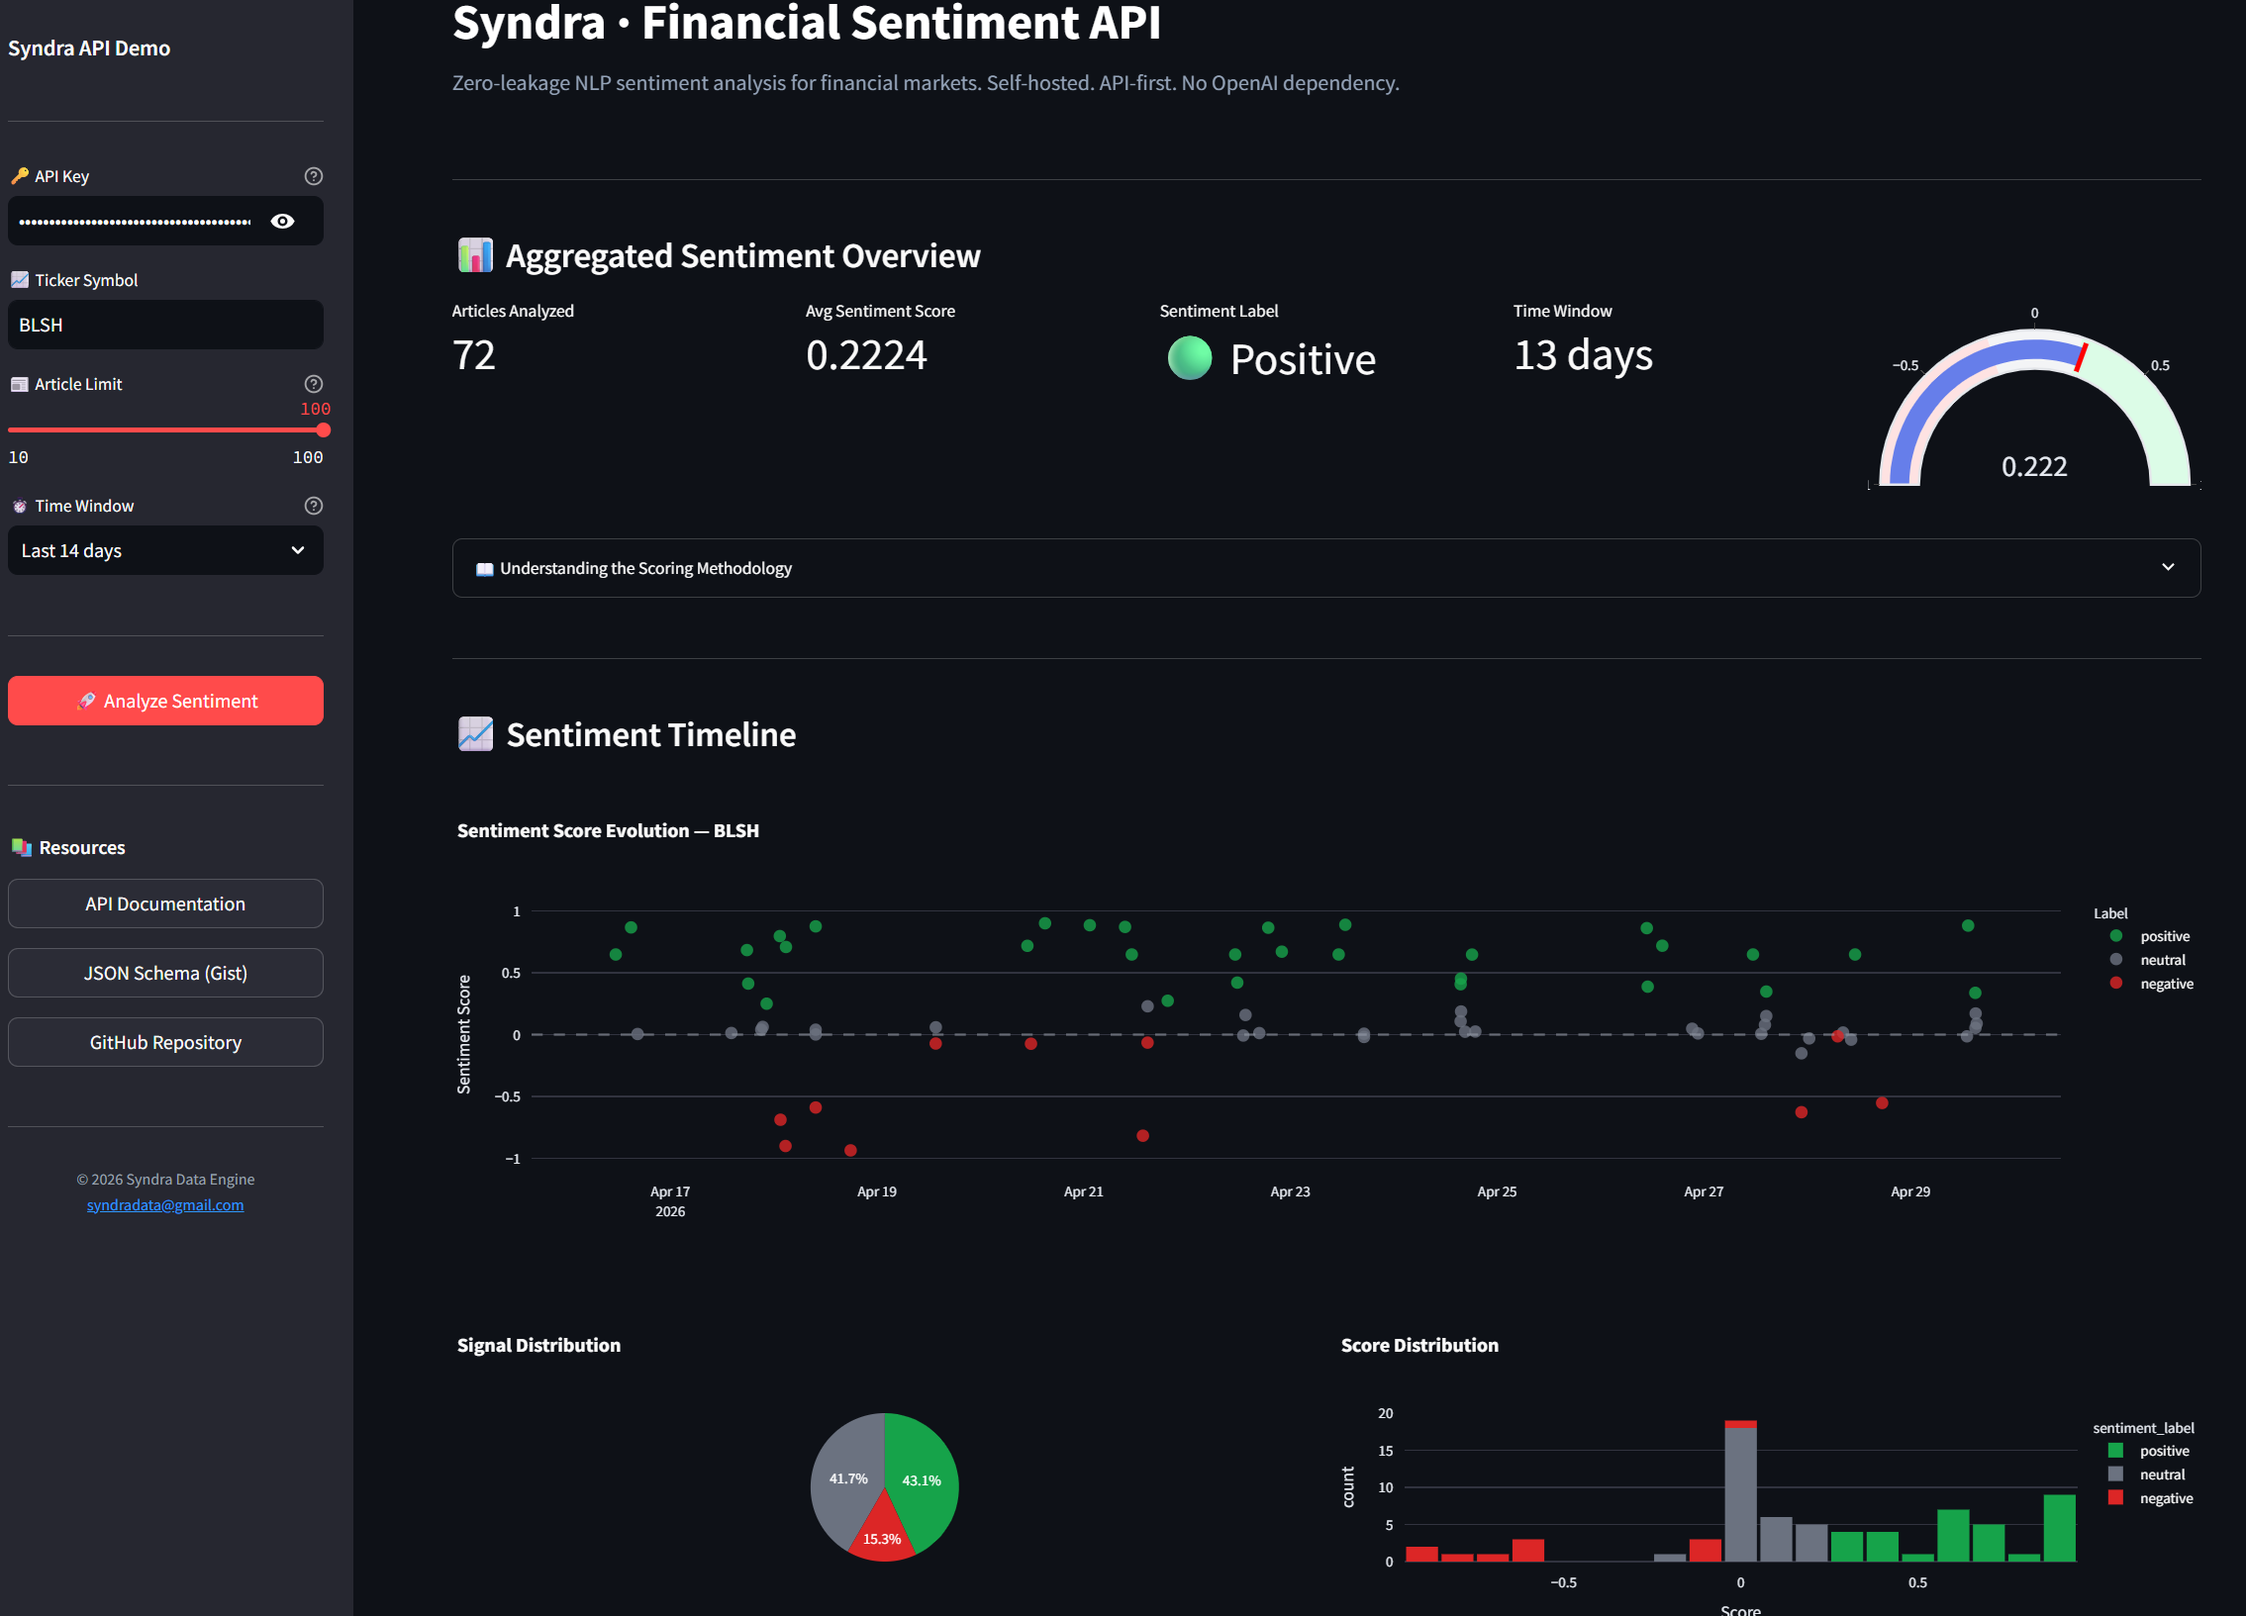
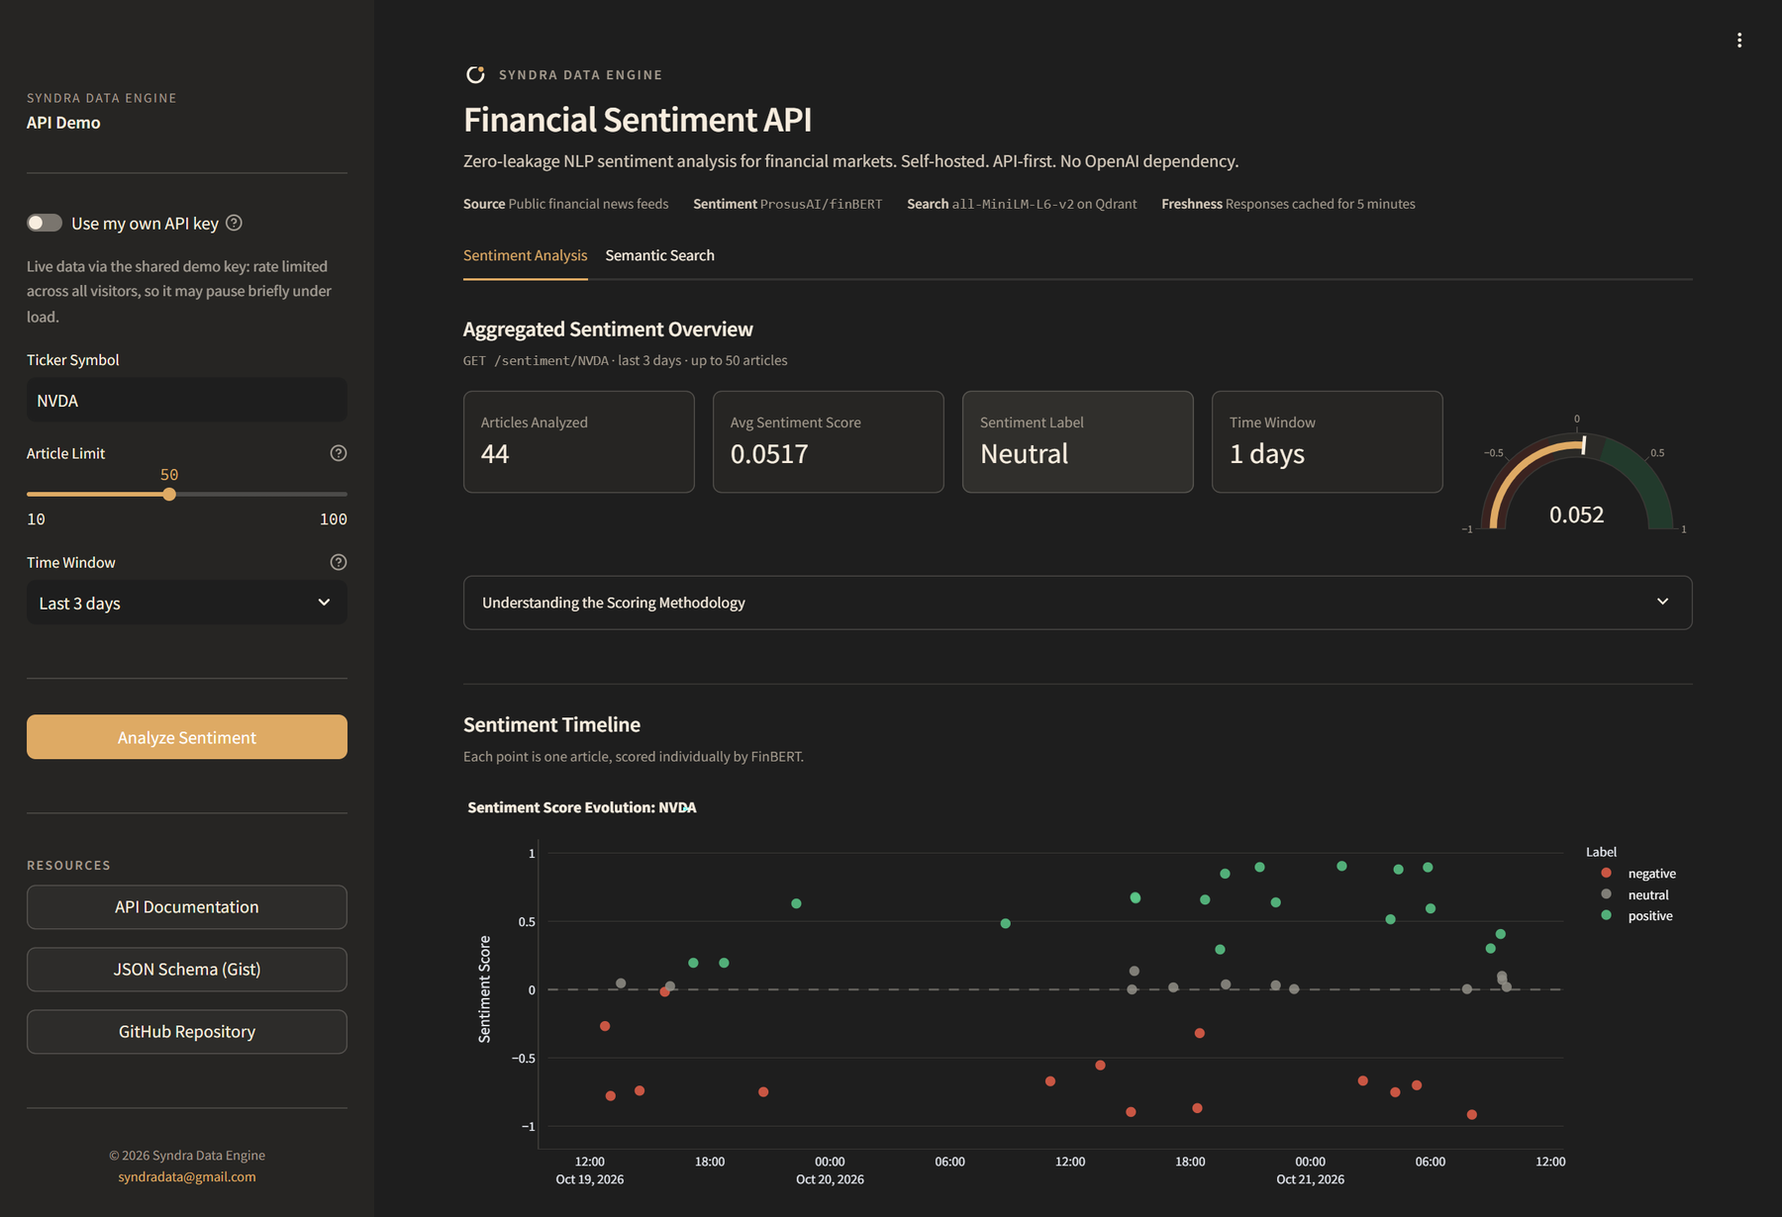
docs(readme): demo screenshot, real API examples and accurate claims

diff --git a/README.md b/README.md
@@ -5,7 +5,7 @@
   </picture>
 </p>
 
-# Syndra - Advanced Financial DaaS Platform 📈
+# Syndra - Financial News Sentiment DaaS
 
 ![Python](https://img.shields.io/badge/python-3670A0?style=for-the-badge&logo=python&logoColor=ffdd54)
 ![Docker](https://img.shields.io/badge/docker-%230db7ed.svg?style=for-the-badge&logo=docker&logoColor=white)
@@ -13,76 +13,106 @@
 ![Postgres](https://img.shields.io/badge/postgres-%23316192.svg?style=for-the-badge&logo=postgresql&logoColor=white)
 ![Qdrant](https://img.shields.io/badge/Qdrant-FF5252?style=for-the-badge&logo=qdrant)
 
-🌐 **[syndradata.com](https://syndradata.com/)** · 📊 **[Live demo](https://demo.syndradata.com/)** · 📖 **[API docs](https://api.syndradata.com/docs)**
+**[syndradata.com](https://syndradata.com/)** · **[Live demo](https://demo.syndradata.com/)** · **[API docs](https://api.syndradata.com/docs)**
 
-<!--- 
+**Syndra** is a B2B Data-as-a-Service (DaaS) platform for quantitative funds and financial intelligence systems. Every hour it ingests public financial news, scores each article with a financial sentiment model, indexes it for semantic search, and serves the result through a strictly typed, versioned REST API.
+
+Built on the principle of **Zero Data Leakage**, Syndra runs 100% of its Natural Language Processing (NLP) models on its own server, with no calls to third-party AI APIs, so the data and the queries never leave its perimeter.
+
 <p align="center">
-  <img src="assets/public/syndra_demo_dashboard.png" alt="Syndra Demo Dashboard" width="100%">
+  <img src="assets/public/syndra_demo_dashboard.png" alt="Syndra demo: aggregated sentiment and timeline for NVDA" width="100%">
 </p>
---->
-
-**Syndra** is an enterprise-grade, B2B Data-as-a-Service (DaaS) platform engineered for quantitative funds and financial intelligence systems. It delivers strictly typed, real-time financial sentiment analysis and structured metadata through a robust, API-first architecture.
-
-Built on the principle of **Zero Data Leakage**, Syndra ensures absolute data sovereignty by executing 100% of Natural Language Processing (NLP) models locally, eliminating reliance on third-party APIs and safeguarding proprietary alpha signals.
 
 ---
 
-## ⚡ API & SDK Integration
+## API Integration
 
-Syndra acts as the programmatic intelligence layer for downstream trading and analytics platforms.
+Syndra acts as the programmatic intelligence layer for downstream trading and analytics platforms. Every request is authenticated with an API key, rate limited per client, and cached for 5 minutes.
 
-| 📊 Ticker Sentiment Search | 🧠 Semantic Vector Search |
-| :---: | :---: |
-| <img src="assets/public/swagger_ticker.png" alt="Swagger Ticker Search" width="100%"> | <img src="assets/public/swagger_semantic.png" alt="Swagger Semantic Search" width="100%"> |
-
-### Target Endpoint: Semantic Sentiment
+### Ticker sentiment
 
 **Request:**
 ```bash
-curl -X GET "https://api.syndradata.com/api/v1/sentiment/AAPL" \
+curl -X GET "https://api.syndradata.com/api/v1/sentiment/NVDA?limit=2" \
      -H "X-API-Key: syndra_XXXXXXXXXXXXXXXXXX" \
      -H "Accept: application/json"
 ```
 
-**Response Data Contract:**
+**Response:**
 ```json
 {
   "status": "success",
-  "ticker": "AAPL",
-  "time_window": "3 days",
-  "aggregated_sentiment": "positive",
-  "average_score": 0.6543,
-  "article_count": 42,
+  "ticker": "NVDA",
+  "time_window": "24 hours",
+  "aggregated_sentiment": "neutral",
+  "average_score": 0.0449,
+  "article_count": 2,
   "recent_signals": [
     {
-      "title": "Apple accelerates AI deployment across edge devices",
-      "url": "https://finance.yahoo.com/news/apple-ai...",
-      "published_at": "2026-04-27T10:20:00",
+      "title": "NVIDIA Launches OpenShell Reference Architecture for Safe AI Agents",
+      "url": "https://finance.yahoo.com/technology/ai/articles/nvidia-launches-openshell-reference-architecture-094800780.html?.tsrc=rss",
+      "published_at": "2026-10-21T09:48:00",
       "source": "Finance.yahoo.com",
-      "sentiment_label": "positive",
-      "sentiment_score": 0.8468
+      "sentiment_label": "neutral",
+      "sentiment_score": 0.019
+    },
+    {
+      "title": "European Ecosystem Builds World’s Most Efficient AI Factories With NVIDIA DSX",
+      "url": "https://finance.yahoo.com/technology/ai/articles/european-ecosystem-builds-world-most-093500135.html?.tsrc=rss",
+      "published_at": "2026-10-21T09:35:00",
+      "source": "Finance.yahoo.com",
+      "sentiment_label": "neutral",
+      "sentiment_score": 0.0707
     }
   ]
 }
 ```
 
+### Semantic search
+
+Finds articles by meaning rather than by keyword, optionally filtered by ticker.
+
+**Request:**
+```bash
+curl -X GET "https://api.syndradata.com/api/v1/search/semantic?query=chip%20export%20restrictions&limit=2" \
+     -H "X-API-Key: syndra_XXXXXXXXXXXXXXXXXX"
+```
+
+**Response:**
+```json
+[
+  {
+    "similarity_score": 0.6149,
+    "title": "China's Chip Exports Double To $31 Billion As US Restrictions Fuel AI Demand",
+    "tickers": [],
+    "sentiment_label": "positive"
+  },
+  {
+    "similarity_score": 0.6126,
+    "title": "China steps up protection for chip designs in revised regulations",
+    "tickers": [],
+    "sentiment_label": "neutral"
+  }
+]
+```
+
 ---
 
-## 🏛 Core Architectural Principles
+## Core Architectural Principles
 
-Syndra prioritizes data immutability, mathematical resiliency, and clear separation of concerns.
+Syndra prioritizes data immutability, reproducibility, and clear separation of concerns.
 
-- **Zero Data Leakage (Local NLP):** Inference runs securely within isolated, hardware-accelerated (CUDA) sub-processes using specialized sequence models (FinBERT/GGUF). Sensitive financial data never leaves the internal VPC.
-- **Medallion Architecture (PostgreSQL / JSONB):** 
-  - *Bronze:* Schema-less, resilient JSONB ingestion.
-  - *Silver:* Cleansed, normalized entities.
-  - *Gold:* Aggregated features ready for quantitative consumption.
-- **Strict Data Contracts (FastAPI / Pydantic):** Immutable Egress and Ingress boundaries. Upstream data model shifts (e.g., changes in web layouts) fail fast locally, preventing downstream database corruption.
-- **Vector Search (Qdrant):** High-dimensional financial embeddings index semantic similarity, unlocking contextual alpha discovery beyond traditional keyword matching.
+- **Zero Data Leakage (Local NLP):** Inference runs on CPU in isolated subprocesses on a single self-hosted server: [FinBERT](https://huggingface.co/ProsusAI/finbert) for sentiment and [all-MiniLM-L6-v2](https://huggingface.co/sentence-transformers/all-MiniLM-L6-v2) for embeddings. Both models are baked into the image at pinned revisions and loaded offline, so no run depends on an external model hub.
+- **Medallion Architecture:**
+  - *Bronze:* Raw articles as ingested, stored as schema-less JSONB in PostgreSQL and never mutated after insert.
+  - *Silver:* Cleansed articles with their FinBERT sentiment and extracted tickers, in a relational PostgreSQL table that serves the API.
+  - *Gold:* Article embeddings in Qdrant, ready for semantic search.
+- **Strict Data Contracts (FastAPI / Pydantic):** Validated ingress and egress boundaries. Upstream data model shifts (e.g., changes in a feed's layout) fail fast at ingestion, preventing downstream database corruption.
+- **Vector Search (Qdrant):** Financial news embeddings index semantic similarity, enabling contextual discovery beyond traditional keyword matching.
 
 ---
 
-## 🗺 System Architecture
+## System Architecture
 
 ```mermaid
 graph LR
@@ -94,18 +124,18 @@ graph LR
     classDef api fill:#e8f5e9,stroke:#388e3c,stroke-width:2px,color:#1b5e20
 
     %% Main pipeline
-    A["🌐 RSS Feeds<br/>(Financial News)"]:::source
-    B[/"🕸 Web Crawler<br/>(Python Scrapy)"/]:::compute
-    C[("🥉 Bronze Layer<br/>(PostgreSQL JSONB)")]:::storage
-    D{"🧠 NLP Engine<br/>(FinBERT Sentiment)"}:::compute
-    E[("🥈 Silver Layer<br/>(Relational Data)")]:::storage
-    F{"⚙ Embedding Engine<br/>(MiniLM Vectors)"}:::compute
-    G[("🥇 Gold Layer<br/>(Qdrant DB)")]:::storage
+    A["RSS Feeds<br/>(Financial News)"]:::source
+    B[/"Web Crawler<br/>(Python Scrapy)"/]:::compute
+    C[("Bronze Layer<br/>(PostgreSQL JSONB)")]:::storage
+    D{"NLP Engine<br/>(FinBERT Sentiment)"}:::compute
+    E[("Silver Layer<br/>(Relational Data)")]:::storage
+    F{"Embedding Engine<br/>(MiniLM Vectors)"}:::compute
+    G[("Gold Layer<br/>(Qdrant DB)")]:::storage
 
     A --> B --> C --> D --> E --> F --> G
 
     %% API layer (separate row naturally)
-    H(["🚀 B2B REST API<br/>(FastAPI)"]):::api
+    H(["B2B REST API<br/>(FastAPI)"]):::api
 
     E -->|Relational Queries| H
     G -->|Semantic Search| H
@@ -113,34 +143,41 @@ graph LR
 
 ---
 
-## 🏗 Technology Stack
+## Technology Stack
 
-- **Data Engineering:** Prefect (Workflow Orchestration), Scrapy (Extraction).
+- **Data Engineering:** Prefect (hourly workflow orchestration), Scrapy (Extraction).
 - **Storage & Search:** PostgreSQL 15 (Relational & JSONB), Qdrant (Vector Database), Redis (response cache, API key cache, rate limiting).
 - **Backend Services:** FastAPI, SQLAlchemy 2.0 (Async), Uvicorn.
-- **MLOps:** PyTorch, Sentence-Transformers.
-- **Infrastructure:** Docker, Docker Compose V2, Caddy (sole ingress, automatic TLS).
+- **MLOps:** PyTorch, Transformers, Sentence-Transformers, all on CPU.
+- **Infrastructure:** Docker, Docker Compose V2, Caddy (sole ingress, automatic TLS), behind Cloudflare.
+- **Observability:** Prometheus, cAdvisor and node exporter, with domain and ETL metrics derived from PostgreSQL.
 - **Public Surfaces:** Streamlit (interactive demo), static HTML/CSS landing.
 
 ---
 
-## 📂 System Topology
+## System Topology
 
 ```text
 syndra-data-engine/
-├── backend/          # Microservices, strictly typed DTOs, API routing
-├── demo/             # Public Streamlit demo, self-hosted at demo.syndradata.com
-├── frontend/         # Static landing page for syndradata.com
-├── infra/            # Immutable infrastructure definitions
-├── docs/             # ADRs, Playbooks, and Incident Management
-├── deploy.sh         # SHA-tagged, selective deployment to the VPS
-├── docker-compose.yml# Local development stack
-└── README.md         # Platform Entrypoint
+├── backend/                  # API, ETL pipeline, NLP models, strictly typed DTOs
+├── demo/                     # Public Streamlit demo, self-hosted at demo.syndradata.com
+├── frontend/                 # Static landing page for syndradata.com
+├── infra/                    # Production compose, Caddy, Prometheus and Postgres init
+├── docs/                     # ADRs, Playbooks, and Incident Management
+├── benchmarks/               # Reproducible performance experiments and their results
+├── assets/                   # Images used by this README
+├── deploy.sh                 # SHA-tagged, selective deployment to the VPS
+├── check-observability.sh    # Read-only health check of production monitoring
+├── check-compose-mounts.sh   # Verifies compose bind mounts exist before startup
+├── run-integration-tests.sh  # Security tests against a throwaway local stack
+├── Makefile                  # Shortcuts for local development and the VPS
+├── docker-compose.yml        # Local development stack
+└── README.md                 # Platform Entrypoint
 ```
 
 ---
 
-## 📚 Technical Documentation
+## Technical Documentation
 
 For detailed information on platform modules and architectural decisions, please refer to the engineering knowledge base:
 - [Architecture Decision Records (ADRs)](./docs/architecture_decision_records.md)
@@ -149,7 +186,7 @@ For detailed information on platform modules and architectural decisions, please
 
 ---
 
-## 📜 License
+## License
 
 Copyright (C) 2026 Francisco Sánchez-Montesinos Molinero.
 
